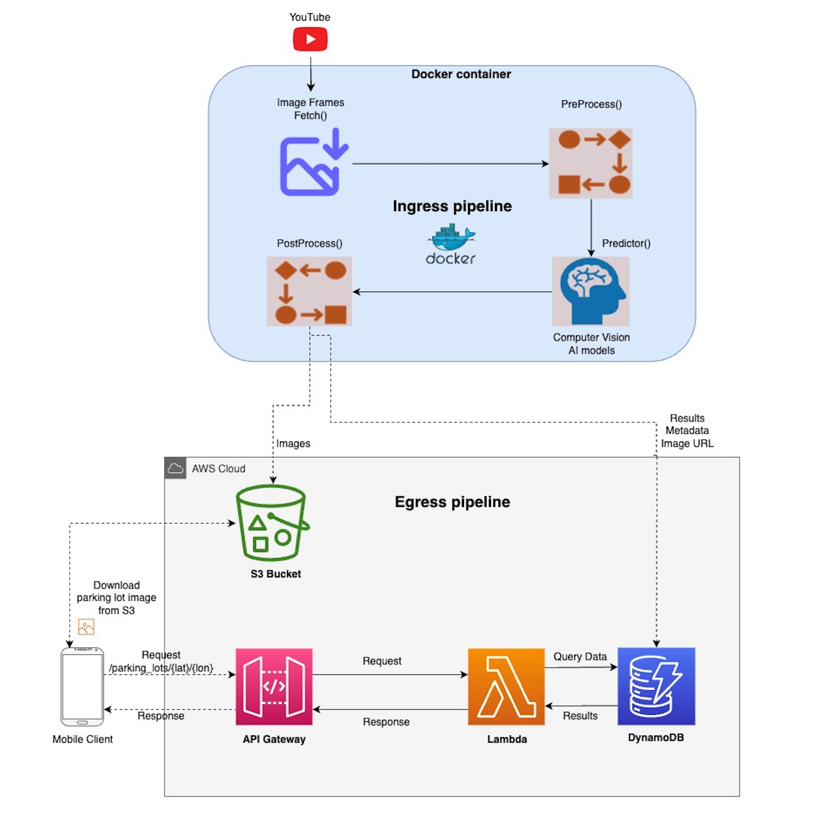
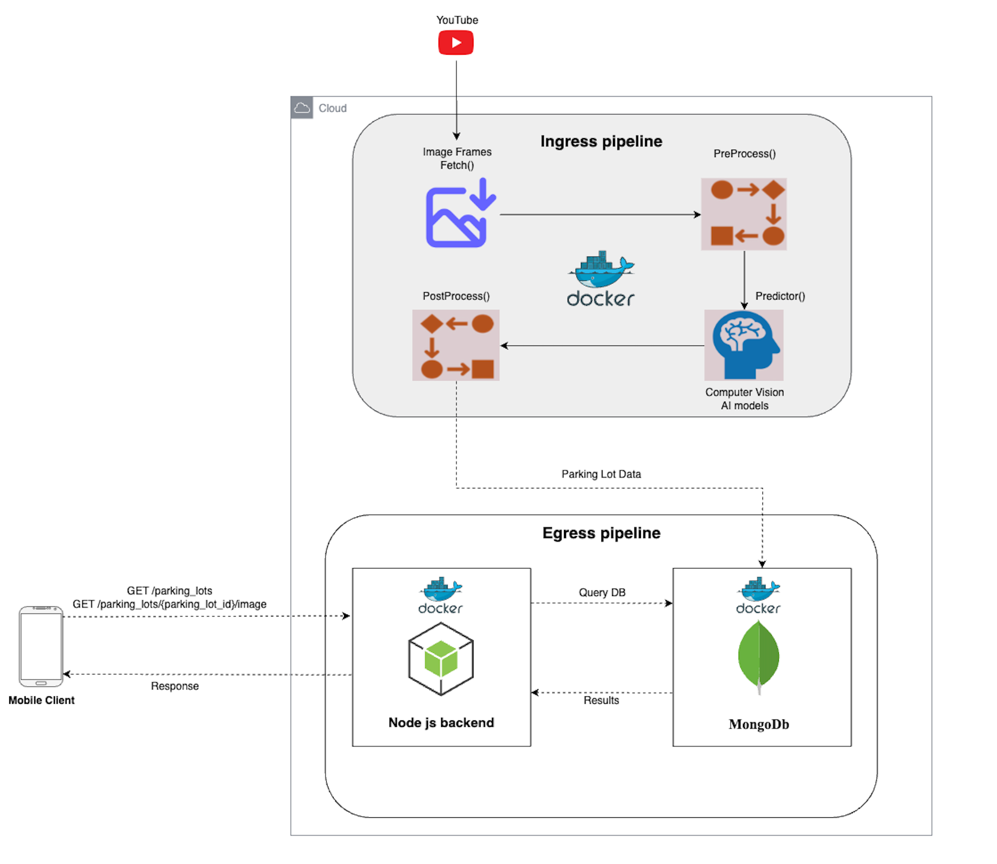
Updated the script to insert records in mongodb along with the images | Updated architecture diagram

diff --git a/smart_park/run_process1.py b/smart_park/run_process1.py
@@ -6,156 +6,163 @@ Automatically generated by Colaboratory.
 Original file is located at
     https://colab.research.google.com/drive/1vHs5S8M8Siu6Vdqa2T74fzWEpjaL8ZN7
 """
-import base64
+import io
 import os
 import pathlib
 import subprocess
 import time
 import uuid
 
-import boto3
 import yaml
+from PIL import Image
+from pymongo import MongoClient
 
 from my_utils.image_fetcher import image_fetcher
 from my_utils.preprocess3 import pre_process
 
 
-def process2_pipeline(parking_lot, MODEL, PREPROCESSING_CONFIG, original_object_folder, prediction_object_folder):
-    # IMAGE FETCHER SCRIPT
-    fetched_image, filename_string, timestamp = image_fetcher(parking_lot["source_url"])
+class RunProcess:
+    __model_inputs = None
+    __pre_processing_config = None
+    __parking_lots = None
+    __mongo_connection_string = None
+    __connection_obj = None
 
-    # Setting the path for saving the fetched and preprocessed images.
-    original_image_dir_path = PREPROCESSING_CONFIG["original-image"]
-    preprocess_image_dir_path = PREPROCESSING_CONFIG["preprocessed-image-dir-save-path"]
+    def __init__(self):
+        with open('config/config.yml', 'r') as file:
+            __sp_config = yaml.safe_load(file)
 
-    # Sending the image to preprocessing script
-    pre_process(PREPROCESSING_CONFIG, fetched_image,
-                original_image_dir_path,
-                preprocess_image_dir_path,
-                filename_string)
+        if __sp_config is None:
+            print("Error while fetching config from yml file.")
+            exit(1)
 
-    # Setting the directory path to fetch the image for detection
-    source = preprocess_image_dir_path + filename_string
+        try:
+            self.__model_inputs = __sp_config["model-inputs"]
+            self.__pre_processing_config = __sp_config["pre-processing-bounds"]
+            self.__parking_lots = __sp_config["parking-lots"]
+            self.__mongo_connection_string = __sp_config["mongodb"]["connection-string"]
 
-    # PREDICTION part of the process pipeline
-    command = [
-        'python3',
-        'detect.py',
-        '--weights',
-        MODEL["weights"],
-        '--source',
-        source,
-        '--img-size',
-        str(MODEL["img-size"]),
-        '--conf-thres',
-        '0.68'
-    ]
+            __mongo_client = MongoClient(self.__mongo_connection_string)
+            self.__connection_obj = __mongo_client['plv_detection_data']
+        except Exception:
+            print("Error while parsing config.")
+            exit(1)
 
-    # Running the detection script
-    sp = subprocess.Popen(command, stdout=subprocess.PIPE)
-    output, _ = sp.communicate()
+    def __insert_to_mongodb(self, parking_lot, filename_string, number_of_empty_parking_slots, timestamp):
+        pre_processed_image_file_name = os.path.join(pathlib.Path(__file__).parent.resolve(),
+                                                     f"pre_processed_image/{filename_string}")
+        output_image_file_name = os.path.join(pathlib.Path(__file__).parent.resolve(),
+                                              f"inference/output/{filename_string}")
 
-    # POST-PROCESSING Script
-    print(output)
-    result_string = (output.split(b'\n'))[-4]
-    print(result_string)
-    try:
-        number_of_vehicles = int(result_string.split(b" ")[1])
-        number_of_empty_parking_slots = parking_lot["spaces"] - number_of_vehicles
-    except Exception:
-        print("Exception while processing the model output. Setting the number of available parking slots to 0")
-        number_of_empty_parking_slots = parking_lot["spaces"]
+        og_image = Image.open(pre_processed_image_file_name)
+        og_image_bytes = io.BytesIO()
+        og_image.save(og_image_bytes, format='JPEG')
 
-    # Upload original image to S3
-    original_object = original_object_folder + filename_string
-    pre_processed_image_file_name = os.path.join(pathlib.Path(__file__).parent.resolve(),
-                                                 f"pre_processed_image/{filename_string}")
-    response = s3.upload_file(pre_processed_image_file_name, bucket_name, original_object)
-    print(response)
-    original_http_url = "https://%s.s3.amazonaws.com/%s" % (bucket_name, original_object)
-    print(original_http_url)
+        pred_image = Image.open(output_image_file_name)
+        pred_image_bytes = io.BytesIO()
+        pred_image.save(pred_image_bytes, format='JPEG')
 
-    # Upload prediction/annotated image to S3
-    prediction_object = prediction_object_folder + filename_string
-    output_image_file_name = os.path.join(pathlib.Path(__file__).parent.resolve(),
-                                          f"inference/output/{filename_string}")
-    response = s3.upload_file(output_image_file_name, bucket_name, prediction_object)
-    print(response)
-    prediction_http_url = "https://%s.s3.amazonaws.com/%s" % (bucket_name, prediction_object)
-    print(prediction_http_url)
+        common_request_body = {
+            'id': str(uuid.uuid4()),
+            'latitude': str(parking_lot["latitude"]),
+            'longitude': str(parking_lot["longitude"]),
+            'name': parking_lot["name"],
+            'emptySpaces': number_of_empty_parking_slots,
+            'totalSpaces': parking_lot["spaces"],
+            'timestamp': int(timestamp),
+            'ogImage': og_image_bytes.getvalue(),
+            'predImage': pred_image_bytes.getvalue(),
+            'timeLimit': parking_lot["time_limit"],
+            'charges': parking_lot["charges"]
+        }
 
-    # Clean up local images after uploading to S3
-    input_image_file_name = os.path.join(pathlib.Path(__file__).parent.resolve(), f"images/{filename_string}")
-    os.remove(pre_processed_image_file_name)
-    os.remove(input_image_file_name)
-    os.remove(output_image_file_name)
+        # Insert the record to ParkingLotHistory collection
+        parking_lot_history_collection = self.__connection_obj['parkingLotHistory']
+        parking_lot_history_collection.insert_one(common_request_body)
 
-    # Insert to DynamoDb
-    str_timestamp = str(int(timestamp))
-    common_request_body = {
-        'latlon': str(parking_lot["latitude"]) + ":" + str(parking_lot["longitude"]),
-        'parking_lot_name': parking_lot["name"],
-        'empty_parking_spaces': str(number_of_empty_parking_slots),
-        'total_parking_spaces': str(parking_lot["spaces"]),
-        'timestamp': str_timestamp,
-        'original_image_url': original_http_url,
-        'prediction_image_url': prediction_http_url,
-        'parking_lot_time_limit': parking_lot["time_limit"],
-        'parking_charges': str(parking_lot["charges"])
-    }
+        # Insert the record to RecentParkingLots collection
+        recent_parking_lots_collection = self.__connection_obj['recentParkingLots']
+        query_filter = {
+            'latitude': str(parking_lot["latitude"]),
+            'longitude': str(parking_lot["longitude"])
+        }
+        existing_parking_lot = recent_parking_lots_collection.find_one(query_filter)
 
-    # Insert the record to AllParkingLots table
-    # This is the table which is actually used by lambda to serve the response
-    all_parking_lots_table = dynamodb.Table('AllParkingLots')
-    all_parking_lots_table.put_item(
-        Item=common_request_body
-    )
+        if existing_parking_lot:
+            common_request_body['_id'] = existing_parking_lot['_id']
+            common_request_body['id'] = existing_parking_lot['id']
+            recent_parking_lots_collection.replace_one(query_filter, common_request_body)
+        else:
+            recent_parking_lots_collection.insert_one(common_request_body)
 
-    # Insert the record to ParkingLotLogs table
-    # This table is solely used for log keeping purposes
-    parking_lot_logs_table = dynamodb.Table('ParkingLotLog')
-    common_request_body['id'] = str(uuid.uuid4())
-    common_request_body['ttl'] = int(timestamp)
-    parking_lot_logs_table.put_item(
-        Item=common_request_body
-    )
+        print("Records inserted to Mongodb")
 
-    print("Records inserted to dynamodb")
+        # Clean up local images after inserting to DB
+        input_image_file_name = os.path.join(pathlib.Path(__file__).parent.resolve(), f"images/{filename_string}")
+        os.remove(pre_processed_image_file_name)
+        os.remove(input_image_file_name)
+        os.remove(output_image_file_name)
+
+    def __process2_pipeline(self, parking_lot):
+        # IMAGE FETCHER SCRIPT
+        fetched_image, filename_string, timestamp = image_fetcher(parking_lot["source_url"])
+
+        # Sending the image to preprocessing script
+        pre_process(self.__pre_processing_config,
+                    fetched_image,
+                    filename_string)
+
+        # Setting the directory path to fetch the image for detection
+        source = self.__pre_processing_config["preprocessed-image-dir-save-path"] + filename_string
+
+        # PREDICTION part of the process pipeline
+        command = [
+            'python3',
+            'detect.py',
+            '--weights',
+            self.__model_inputs["weights"],
+            '--source',
+            source,
+            '--img-size',
+            str(self.__model_inputs["img-size"]),
+            '--conf-thres',
+            '0.68'
+        ]
+
+        # Running the detection script
+        sp = subprocess.Popen(command, stdout=subprocess.PIPE)
+        output, _ = sp.communicate()
+
+        # POST-PROCESSING Script
+        print(output)
+        result_string = (output.split(b'\n'))[-4]
+        print(result_string)
+        try:
+            number_of_vehicles = int(result_string.split(b" ")[1])
+            number_of_empty_parking_slots = parking_lot["spaces"] - number_of_vehicles
+        except Exception:
+            print("Exception while processing the model output. Setting the number of available parking slots to 0")
+            number_of_empty_parking_slots = parking_lot["spaces"]
+
+        self.__insert_to_mongodb(parking_lot, filename_string, number_of_empty_parking_slots, timestamp)
+
+    def run(self):
+        n = 0
+        while True:
+            print(f"Iteration {n}")
+            start = time.time()
+
+            # TODO: Execute different parking lots parallely
+            for parking_lot in self.__parking_lots:
+                self.__process2_pipeline(parking_lot)
+
+            end = time.time()
+            diff = end - start
+            print(diff)
+            time.sleep(3)
+            n += 1
 
 
 if __name__ == "__main__":
-    # Read and extract configuration from config.yml
-    with open('config/config.yml', 'r') as file:
-        sp_config = yaml.safe_load(file)
-
-    MODEL = sp_config["model-inputs"]
-    AWS_CREDENTIALS = sp_config["aws"]["credentials"]
-    AWS_ENV = sp_config["aws"]["environment"]
-    PREPROCESSING_CONFIG = sp_config["pre-processing-bounds"]
-    ACCESS_KEY = base64.b64decode(AWS_CREDENTIALS["access_key"]).decode('utf-8')
-    SECRET_KEY = base64.b64decode(AWS_CREDENTIALS["secret_key"]).decode('utf-8')
-
-    bucket_name = AWS_ENV["s3_bucket_name"]
-    original_object_name = AWS_ENV["s3_original_object_name"]
-    prediction_object_name = AWS_ENV["s3_prediction_object_name"]
-
-    s3 = boto3.client("s3", aws_access_key_id=ACCESS_KEY, aws_secret_access_key=SECRET_KEY)
-    dynamodb = boto3.resource("dynamodb", aws_access_key_id=ACCESS_KEY, aws_secret_access_key=SECRET_KEY,
-                              region_name="us-east-1")
-
-    parking_lots = sp_config["parking-lots"]
-
-    n = 0
-    while True:
-        print(f"Iteration {n}")
-        start = time.time()
-
-        # TODO: Execute different parking lots parallely
-        for parking_lot in parking_lots:
-            process2_pipeline(parking_lot, MODEL, PREPROCESSING_CONFIG, original_object_name, prediction_object_name)
-
-        end = time.time()
-        diff = end - start
-        print(diff)
-        time.sleep(3)
-        n += 1
+    run_process = RunProcess()
+    run_process.run()

diff --git a/smart_park/my_utils/preprocess3.py b/smart_park/my_utils/preprocess3.py
@@ -1,11 +1,12 @@
-import configparser
 import os
 
 import cv2
 import numpy as np
 
 
-def pre_process(PREPROCESSING_CONFIG, fetched_image, original_image_dir_path, preprocess_image_dir_path, filename):
+def pre_process(PREPROCESSING_CONFIG, fetched_image, filename):
+    original_image_dir_path = PREPROCESSING_CONFIG["original-image"]
+    preprocess_image_dir_path = PREPROCESSING_CONFIG["preprocessed-image-dir-save-path"]
     x_coordinate = PREPROCESSING_CONFIG["x-coordinate"]
     y_coordinate = PREPROCESSING_CONFIG["y-coordinate"]
     height = PREPROCESSING_CONFIG["height"]
